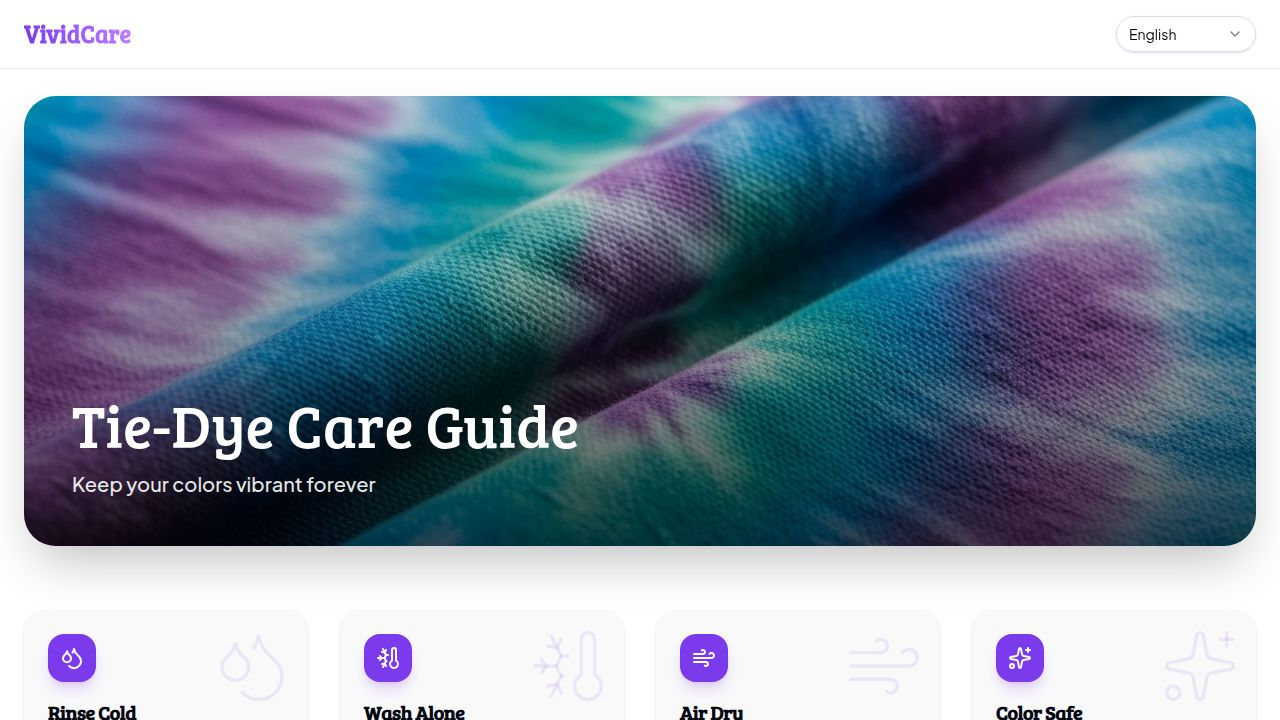
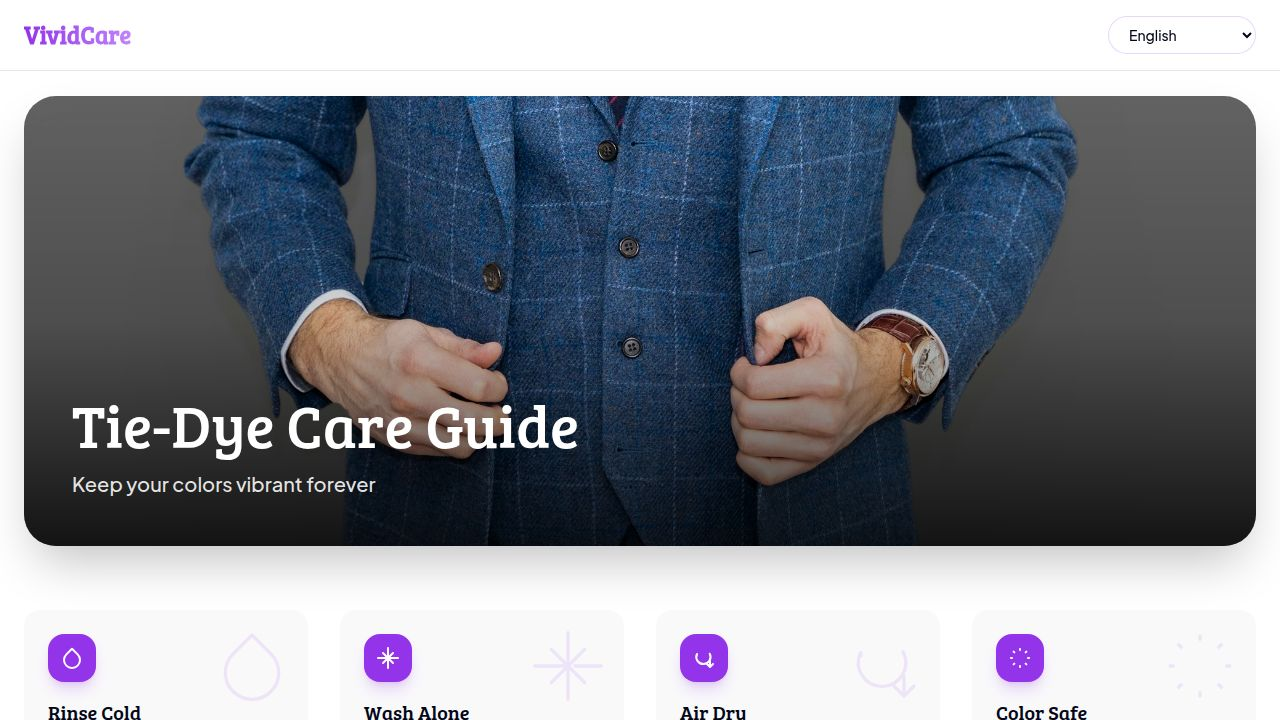
Changing the website to be in plan HTML.

diff --git a/index.html b/index.html
@@ -1,27 +1,226 @@
 <!DOCTYPE html>
 <html lang="en">
-  <head>
-    <meta charset="UTF-8" />
-    <meta name="viewport" content="width=device-width, initial-scale=1.0, maximum-scale=1" />
-
+<head>
+    <meta charset="UTF-8">
+    <meta name="viewport" content="width=device-width, initial-scale=1.0">
     <title>Tie-Dye Care Guide</title>
-    <meta property="og:title" content="Tie-Dye Care Guide" />
-    <meta property="og:description" content="Step-by-step washing instructions for your new tie-dye creations in multiple languages." />
-    <meta property="og:type" content="website" />
-    <meta property="og:image" content="https://replit.com/public/images/opengraph.png" />
-    <meta name="twitter:card" content="summary_large_image" />
-    <meta name="twitter:site" content="@replit" />
-    <meta name="twitter:title" content="Tie-Dye Care Guide" />
-    <meta name="twitter:description" content="Step-by-step washing instructions for your new tie-dye creations in multiple languages." />
-    <meta name="twitter:image" content="https://replit.com/public/images/opengraph.png" />
-
-    <link rel="icon" type="image/png" href="/favicon.png" />
     <link rel="preconnect" href="https://fonts.googleapis.com">
     <link rel="preconnect" href="https://fonts.gstatic.com" crossorigin>
     <link href="https://fonts.googleapis.com/css2?family=Plus+Jakarta+Sans:wght@400;500;600;700&family=Bree+Serif&display=swap" rel="stylesheet">
-  </head>
-  <body>
-    <div id="root"></div>
-    <script type="module" src="/src/main.tsx"></script>
-  </body>
+    <script src="https://cdn.tailwindcss.com"></script>
+    <script>
+        tailwind.config = {
+            theme: {
+                extend: {
+                    colors: {
+                        primary: '#9333ea',
+                        secondary: '#f3f4f6',
+                        background: '#ffffff',
+                        foreground: '#020617',
+                        muted: '#f1f5f9',
+                        'muted-foreground': '#64748b',
+                    },
+                    fontFamily: {
+                        sans: ['"Plus Jakarta Sans"', 'sans-serif'],
+                        serif: ['"Bree Serif"', 'serif'],
+                    }
+                }
+            }
+        }
+    </script>
+    <style>
+        .rtl { direction: rtl; }
+        .hero-gradient {
+            background: linear-gradient(to top, rgba(0,0,0,0.8) 0%, rgba(0,0,0,0.2) 50%, transparent 100%);
+        }
+        .card-hover:hover .icon-bg {
+            color: rgba(147, 51, 234, 0.2);
+        }
+    </style>
+</head>
+<body class="bg-background text-foreground font-sans min-h-screen">
+    <!-- Navigation -->
+    <nav class="fixed top-0 w-full z-50 bg-white/80 backdrop-blur-md border-b">
+        <div class="container mx-auto px-6 py-4 flex justify-between items-center">
+            <div class="font-serif text-2xl font-bold bg-gradient-to-r from-primary to-purple-400 bg-clip-text text-transparent">
+                VividCare
+            </div>
+            <select id="lang-select" class="bg-white border border-primary/20 rounded-full px-4 py-2 outline-none focus:ring-2 focus:ring-primary/50 transition-all text-sm font-medium">
+                <option value="en">English</option>
+                <option value="es">Español</option>
+                <option value="fr">Français</option>
+                <option value="de">Deutsch</option>
+                <option value="hi">हिन्दी (Hindi)</option>
+                <option value="pa">ਪੰਜਾਬੀ (Punjabi)</option>
+                <option value="it">Italiano</option>
+                <option value="ur">اردو (Urdu)</option>
+            </select>
+        </div>
+    </nav>
+
+    <main id="content" class="pt-24 pb-12 ltr">
+        <!-- Hero Section -->
+        <div class="container mx-auto px-6 mb-16">
+            <div class="relative h-[300px] md:h-[450px] rounded-[2rem] overflow-hidden shadow-2xl">
+                <img src="https://images.unsplash.com/photo-1594938298603-c8148c4dae35?auto=format&fit=crop&q=80&w=2000" 
+                     alt="Tie-dye textures" 
+                     class="w-full h-full object-cover">
+                <div id="hero-text" class="absolute inset-0 hero-gradient flex flex-col justify-end p-8 md:p-12 items-start text-left">
+                    <h1 id="title" class="font-serif text-4xl md:text-6xl text-white mb-4">Tie-Dye Care Guide</h1>
+                    <p id="subtitle" class="text-white/90 text-lg md:text-xl font-medium">Keep your colors vibrant forever</p>
+                </div>
+            </div>
+        </div>
+
+        <!-- Instructions Grid -->
+        <div id="steps-grid" class="container mx-auto px-6 grid grid-cols-1 md:grid-cols-2 lg:grid-cols-4 gap-8">
+            <!-- Steps populated by JS -->
+        </div>
+
+        <footer class="container mx-auto px-6 mt-20 text-center">
+            <div class="h-px w-24 bg-primary/20 mx-auto mb-8"></div>
+            <p id="footer-text" class="text-muted-foreground font-medium italic">Handcrafted with love. Treat it with care.</p>
+        </footer>
+    </main>
+
+    <script>
+        const translations = {
+            en: {
+                title: "Tie-Dye Care Guide",
+                subtitle: "Keep your colors vibrant forever",
+                steps: [
+                    { title: "Rinse Cold", desc: "Rinse under cold running water until the water runs clear.", icon: 'M12 2.69l5.66 5.66a8 8 0 1 1-11.31 0z' },
+                    { title: "Wash Alone", desc: "For the first wash, keep it solo to avoid color bleeding.", icon: 'M2 12h10m2 0h8M12 2v20M7 7l10 10M7 17L17 7' },
+                    { title: "Air Dry", desc: "Avoid direct sunlight. Flat dry for the best shape preservation.", icon: 'M17.7 7.7A7.1 7.1 0 1 1 5 8c0 .3 0 .6.1.9M18 21l-3-3m3 3l3-3m-3 3V15' },
+                    { title: "Color Safe", desc: "Use mild, bleach-free detergent for future washes.", icon: 'M12 3v1m0 16v1m9-9h-1M4 12H3m15.364-6.364l-.707.707M6.343 17.657l-.707.707m0-12.728l.707.707m11.314 11.314l.707.707' }
+                ],
+                footer: "Handcrafted with love. Treat it with care."
+            },
+            es: {
+                title: "Guía de Cuidado Tie-Dye",
+                subtitle: "Mantén tus colores vibrantes para siempre",
+                steps: [
+                    { title: "Enjuague Frío", desc: "Enjuague con agua fría hasta que el agua salga clara.", icon: 'M12 2.69l5.66 5.66a8 8 0 1 1-11.31 0z' },
+                    { title: "Lavar Solo", desc: "Para el primer lavado, lávelo solo para evitar que se destiña.", icon: 'M2 12h10m2 0h8M12 2v20M7 7l10 10M7 17L17 7' },
+                    { title: "Secar al Aire", desc: "Evite la luz solar directa. Seque en plano para preservar la forma.", icon: 'M17.7 7.7A7.1 7.1 0 1 1 5 8c0 .3 0 .6.1.9M18 21l-3-3m3 3l3-3m-3 3V15' },
+                    { title: "Protección de Color", desc: "Use detergente suave sin lejía para futuros lavados.", icon: 'M12 3v1m0 16v1m9-9h-1M4 12H3m15.364-6364l-.707.707M6.343 17.657l-.707.707m0-12.728l.707.707m11.314 11.314l.707.707' }
+                ],
+                footer: "Hecho a mano con amor. Trátalo con cuidado."
+            },
+            fr: {
+                title: "Guide d'Entretien Tie-Dye",
+                subtitle: "Gardez vos couleurs éclatantes pour toujours",
+                steps: [
+                    { title: "Rinçage à Froid", desc: "Rincez à l'eau froide jusqu'à ce que l'eau soit claire.", icon: 'M12 2.69l5.66 5.66a8 8 0 1 1-11.31 0z' },
+                    { title: "Laver Seul", desc: "Pour le premier lavage, lavez-le seul pour éviter les dégorgements.", icon: 'M2 12h10m2 0h8M12 2v20M7 7l10 10M7 17L17 7' },
+                    { title: "Séchage à l'Air", desc: "Évitez la lumière directe du soleil. Séchez à plat pour préserver la forme.", icon: 'M17.7 7.7A7.1 7.1 0 1 1 5 8c0 .3 0 .6.1.9M18 21l-3-3m3 3l3-3m-3 3V15' },
+                    { title: "Couleurs Préservées", desc: "Utilisez une lessive douce sans javel pour les prochains lavages.", icon: 'M12 3v1m0 16v1m9-9h-1M4 12H3m15.364-6364l-.707.707M6.343 17.657l-.707.707m0-12.728l.707.707m11.314 11.314l.707.707' }
+                ],
+                footer: "Fait main avec amour. Traitez-le avec soin."
+            },
+            de: {
+                title: "Batik Pflegeanleitung",
+                subtitle: "Halten Sie Ihre Farben für immer lebendig",
+                steps: [
+                    { title: "Kalt Spülen", desc: "Unter kaltem fließendem Wasser spülen, bis das Wasser klar ist.", icon: 'M12 2.69l5.66 5.66a8 8 0 1 1-11.31 0z' },
+                    { title: "Einzeln Waschen", desc: "Bei der ersten Wäsche einzeln waschen, um Abfärben zu vermeiden.", icon: 'M2 12h10m2 0h8M12 2v20M7 7l10 10M7 17L17 7' },
+                    { title: "Lufttrocknen", desc: "Direktes Sonnenlicht vermeiden. Liegend trocknen für beste Form.", icon: 'M17.7 7.7A7.1 7.1 0 1 1 5 8c0 .3 0 .6.1.9M18 21l-3-3m3 3l3-3m-3 3V15' },
+                    { title: "Farbschutz", desc: "Verwenden Sie für zukünftige Wäschen mildes Bleichmittelfreies Waschmittel.", icon: 'M12 3v1m0 16v1m9-9h-1M4 12H3m15.364-6364l-.707.707M6.343 17.657l-.707.707m0-12.728l.707.707m11.314 11.314l.707.707' }
+                ],
+                footer: "Mit Liebe handgefertigt. Mit Sorgfalt behandeln."
+            },
+            hi: {
+                title: "टाई-डाई देखभाल मार्गदर्शिका",
+                subtitle: "अपने रंगों को हमेशा के लिए जीवंत रखें",
+                steps: [
+                    { title: "ठंडे पानी से धोएं", desc: "ठंडे बहते पानी के नीचे तब तक धोएं जब तक पानी साफ न हो जाए।", icon: 'M12 2.69l5.66 5.66a8 8 0 1 1-11.31 0z' },
+                    { title: "अकेले धोएं", desc: "पहली धुलाई के लिए, रंगों को मिलने से बचाने के लिए इसे अकेला रखें।", icon: 'M2 12h10m2 0h8M12 2v20M7 7l10 10M7 17L17 7' },
+                    { title: "हवा में सुखाएं", desc: "सीधी धूप से बचें। बेहतर आकार के लिए इसे समतल सुखाएं।", icon: 'M17.7 7.7A7.1 7.1 0 1 1 5 8c0 .3 0 .6.1.9M18 21l-3-3m3 3l3-3m-3 3V15' },
+                    { title: "रंग सुरक्षित", desc: "भविष्य की धुलाई के लिए हल्के, ब्लीच-मुक्त डिटर्जेंट का उपयोग करें।", icon: 'M12 3v1m0 16v1m9-9h-1M4 12H3m15.364-6364l-.707.707M6.343 17.657l-.707.707m0-12.728l.707.707m11.314 11.314l.707.707' }
+                ],
+                footer: "प्यार से हाथ से बनाया गया। इसे सावधानी से संभालें।"
+            },
+            pa: {
+                title: "ਟਾਈ-ਡਾਈ ਦੇਖਭਾਲ ਗਾਈਡ",
+                subtitle: "ਆਪਣੇ ਰੰਗਾਂ ਨੂੰ ਹਮੇਸ਼ਾ ਲਈ ਜੀਵੰਤ ਰੱਖੋ",
+                steps: [
+                    { title: "ਠੰਡੇ ਪਾਣੀ ਨਾਲ ਧੋਵੋ", desc: "ਠੰਡੇ ਵਗਦੇ ਪਾਣੀ ਦੇ ਹੇਠਾਂ ਉਦੋਂ ਤੱਕ ਧੋਵੋ ਜਦੋਂ ਤੱਕ ਪਾਣੀ ਸਾਫ਼ ਨਹੀਂ ਹੋ ਜਾਂਦਾ।", icon: 'M12 2.69l5.66 5.66a8 8 0 1 1-11.31 0z' },
+                    { title: "ਇਕੱਲੇ ਧੋਵੋ", desc: "ਪਹਿਲੀ ਵਾਰ ਧੋਣ ਵੇਲੇ, ਰੰਗਾਂ ਨੂੰ ਮਿਲਣ ਤੋਂ ਰੋਕਣ ਲਈ ਇਸਨੂੰ ਇਕੱਲਾ ਰੱਖੋ।", icon: 'M2 12h10m2 0h8M12 2v20M7 7l10 10M7 17L17 7' },
+                    { title: "ਹਵਾ ਵਿੱਚ ਸੁਕਾਓ", desc: "ਸਿੱਧੀ ਧੁੱਪ ਤੋਂ ਬਚੋ। ਬਿਹਤਰ ਆਕਾਰ ਲਈ ਇਸਨੂੰ ਪੱਧਰਾ ਸੁਕਾਓ।", icon: 'M17.7 7.7A7.1 7.1 0 1 1 5 8c0 .3 0 .6.1.9M18 21l-3-3m3 3l3-3m-3 3V15' },
+                    { title: "ਰੰਗ ਸੁਰੱਖਿਅਤ", desc: "ਭਵਿੱਖ ਦੀਆਂ ਧੁਲਾਈਆਂ ਲਈ ਹਲਕੇ, ਬਲੀਚ-ਮੁਕਤ ਡਿਟਰਜੈਂਟ ਦੀ ਵਰਤੋਂ ਕਰੋ।", icon: 'M12 3v1m0 16v1m9-9h-1M4 12H3m15.364-6364l-.707.707M6.343 17.657l-.707.707m0-12.728l.707.707m11.314 11.314l.707.707' }
+                ],
+                footer: "ਪਿਆਰ ਨਾਲ ਹੱਥੀਂ ਬਣਾਇਆ ਗਿਆ। ਇਸਦੀ ਦੇਖਭਾਲ ਕਰੋ।"
+            },
+            it: {
+                title: "Guida alla Cura Tie-Dye",
+                subtitle: "Mantieni i tuoi colori vivaci per sempre",
+                steps: [
+                    { title: "Risciacquo Freddo", desc: "Risciacquare sotto acqua fredda corrente finché l'acqua non è limpida.", icon: 'M12 2.69l5.66 5.66a8 8 0 1 1-11.31 0z' },
+                    { title: "Lavare da Solo", desc: "Per il primo lavaggio, lavare separatamente per evitare macchie di colore.", icon: 'M2 12h10m2 0h8M12 2v20M7 7l10 10M7 17L17 7' },
+                    { title: "Asciugare all'Aria", desc: "Evitare la luce solare diretta. Asciugare in piano per preservare la forma.", icon: 'M17.7 7.7A7.1 7.1 0 1 1 5 8c0 .3 0 .6.1.9M18 21l-3-3m3 3l3-3m-3 3V15' },
+                    { title: "Colori Protetti", desc: "Usare un detersivo delicato senza candeggina per i futuri lavaggi.", icon: 'M12 3v1m0 16v1m9-9h-1M4 12H3m15.364-6364l-.707.707M6.343 17.657l-.707.707m0-12.728l.707.707m11.314 11.314l.707.707' }
+                ],
+                footer: "Fatto a mano con amore. Trattalo con cura."
+            },
+            ur: {
+                title: "ٹائی ڈائی کی دیکھ بھال کی گائیڈ",
+                subtitle: "اپنے رنگوں کو ہمیشہ کے لیے روشن رکھیں",
+                steps: [
+                    { title: "ٹھنڈے پانی سے دھوئیں", desc: "ٹھنڈے بہتے پانی کے نیچے تب تک دھوئیں جب تک پانی صاف نہ ہو جائے۔", icon: 'M12 2.69l5.66 5.66a8 8 0 1 1-11.31 0z' },
+                    { title: "اکیلے دھوئیں", desc: "پہلی بار دھونے کے لیے، رنگوں کو ملنے سے بچانے کے لیے اسے اکیلا رکھیں۔", icon: 'M2 12h10m2 0h8M12 2v20M7 7l10 10M7 17L17 7' },
+                    { title: "ہوا میں سکھائیں", desc: "براہ راست سورج کی روشنی سے بچیں۔ بہترین شکل کے لیے اسے ہموار سکھائیں۔", icon: 'M17.7 7.7A7.1 7.1 0 1 1 5 8c0 .3 0 .6.1.9M18 21l-3-3m3 3l3-3m-3 3V15' },
+                    { title: "رنگ محفوظ", desc: "مستقبل میں دھونے کے لیے ہلکا، بلیچ سے پاک صابن استعمال کریں۔", icon: 'M12 3v1m0 16v1m9-9h-1M4 12H3m15.364-6364l-.707.707M6.343 17.657l-.707.707m0-12.728l.707.707m11.314 11.314l.707.707' }
+                ],
+                footer: "محبت سے ہاتھ سے بنایا گیا۔ اسے احتیاط سے استعمال کریں۔"
+            }
+        };
+
+        const updateContent = (lang) => {
+            const t = translations[lang];
+            const isUrdu = lang === 'ur';
+            
+            // Update Main Content Container
+            const main = document.getElementById('content');
+            main.className = `pt-24 pb-12 ${isUrdu ? 'rtl' : 'ltr'}`;
+
+            // Update Hero Text
+            const heroText = document.getElementById('hero-text');
+            heroText.className = `absolute inset-0 hero-gradient flex flex-col justify-end p-8 md:p-12 ${isUrdu ? 'items-end text-right' : 'items-start text-left'}`;
+            document.getElementById('title').textContent = t.title;
+            document.getElementById('subtitle').textContent = t.subtitle;
+
+            // Update Steps Grid
+            const grid = document.getElementById('steps-grid');
+            grid.innerHTML = t.steps.map((step, idx) => `
+                <div class="card-hover h-full border-none bg-secondary/50 hover:bg-secondary transition-all duration-300 group overflow-hidden relative rounded-2xl p-6 ${isUrdu ? 'text-right' : 'text-left'}">
+                    <div class="absolute top-0 p-4 text-primary/10 group-hover:text-primary/20 transition-colors icon-bg ${isUrdu ? 'left-0' : 'right-0'}">
+                        <svg width="80" height="80" viewBox="0 0 24 24" fill="none" stroke="currentColor" stroke-width="1" stroke-linecap="round" stroke-linejoin="round"><path d="${step.icon}"/></svg>
+                    </div>
+                    <div class="flex flex-col ${isUrdu ? 'items-end' : 'items-start'}">
+                        <div class="w-12 h-12 rounded-2xl bg-primary flex items-center justify-center text-white mb-4 shadow-lg shadow-primary/20">
+                            <svg width="24" height="24" viewBox="0 0 24 24" fill="none" stroke="currentColor" stroke-width="2" stroke-linecap="round" stroke-linejoin="round"><path d="${step.icon}"/></svg>
+                        </div>
+                        <h3 class="font-serif text-xl mb-2">${step.title}</h3>
+                        <p class="text-muted-foreground leading-relaxed">${step.desc}</p>
+                    </div>
+                </div>
+            `).join('');
+
+            // Update Footer
+            document.getElementById('footer-text').textContent = t.footer;
+        };
+
+        // Initialize
+        const langSelect = document.getElementById('lang-select');
+        const defaultLang = navigator.language.split('-')[0];
+        const initialLang = translations[defaultLang] ? defaultLang : 'en';
+        
+        langSelect.value = initialLang;
+        updateContent(initialLang);
+
+        langSelect.addEventListener('change', (e) => {
+            updateContent(e.target.value);
+        });
+    </script>
+</body>
 </html>

diff --git a/README.md b/README.md
@@ -1,57 +1,46 @@
-# Adding Support for a New Language
+# Adding Support for a New Language (Plain HTML/JS Version)
 
 This guide explains how to add a new language to the Tie-Dye Care Guide website.
 
 ## Files to Update
 
-### 1. `client/src/pages/home.tsx`
+### 1. `client/index.html`
 
-This is the primary file where all translations and language configurations reside.
+All translations and configurations are now located in the `<script>` tag at the bottom of `client/index.html`.
 
-#### Step A: Update the `Language` Type
-Add your new language code (ISO 639-1) to the `Language` type definition.
-```typescript
-type Language = "en" | "es" | "fr" | "de" | "hi" | "pa" | "it" | "ur" | "your_new_code";
+#### Step A: Add to the Dropdown
+Locate the `<select id="lang-select">` and add a new `<option>`.
+```html
+<option value="your_new_code">Display Name (Local Name)</option>
 ```
 
-#### Step B: Add Translations
-Add a new entry to the `translations` object with the translated text for each section.
-```typescript
-const translations: Record<Language, Translation> = {
-  // ... existing languages
-  your_new_code: {
-    title: "Translated Title",
-    subtitle: "Translated Subtitle",
-    steps: [
-      { title: "Step 1", desc: "Description 1", icon: Droplets },
-      { title: "Step 2", desc: "Description 2", icon: ThermometerSnowflake },
-      { title: "Step 3", desc: "Description 3", icon: Wind },
-      { title: "Step 4", desc: "Description 4", icon: Sparkles },
-    ],
-    footer: "Translated Footer"
-  }
+#### Step B: Add Translations to the `translations` Object
+Find the `const translations = { ... };` object in the script tag and add your new entry.
+```javascript
+const translations = {
+    // ... existing languages
+    your_new_code: {
+        title: "Translated Title",
+        subtitle: "Translated Subtitle",
+        steps: [
+            { title: "Step 1", desc: "Description 1", icon: 'SVG_PATH_D_ATTRIBUTE' },
+            { title: "Step 2", desc: "Description 2", icon: 'SVG_PATH_D_ATTRIBUTE' },
+            { title: "Step 3", desc: "Description 3", icon: 'SVG_PATH_D_ATTRIBUTE' },
+            { title: "Step 4", desc: "Description 4", icon: 'SVG_PATH_D_ATTRIBUTE' }
+        ],
+        footer: "Translated Footer"
+    }
 };
 ```
+*Note: The `icon` field uses the `d` attribute of a Lucide icon SVG path.*
 
-#### Step C: Update Language Names
-Add the display name for the new language to the `languageNames` object.
-```typescript
-const languageNames: Record<Language, string> = {
-  // ... existing languages
-  your_new_code: "Display Name (Local Name)"
-};
-```
-
-#### Step D: Handle RTL (Optional)
-If the new language is Right-to-Left (like Arabic or Hebrew), update the logic in the `Home` component's JSX to apply RTL classes. Search for the `lang === 'ur'` checks and add your new language code there.
-
-Example:
-```tsx
-<main className={`pt-24 pb-12 ${['ur', 'your_new_code'].includes(lang) ? 'rtl' : 'ltr'}`}>
+#### Step C: Handle RTL (Optional)
+If the new language is Right-to-Left (like Arabic or Hebrew), update the `isUrdu` check in the `updateContent` function.
+```javascript
+const isRTL = ['ur', 'your_new_code'].includes(lang);
 ```
 
 ## Testing Your Changes
 1. Open the website.
-2. Use the language selector dropdown in the top navigation bar.
-3. Verify that all static text, titles, and step descriptions update correctly.
-4. Check that the layout remains polished and responsive.
+2. Select your new language from the dropdown.
+3. Verify the text and layout.
